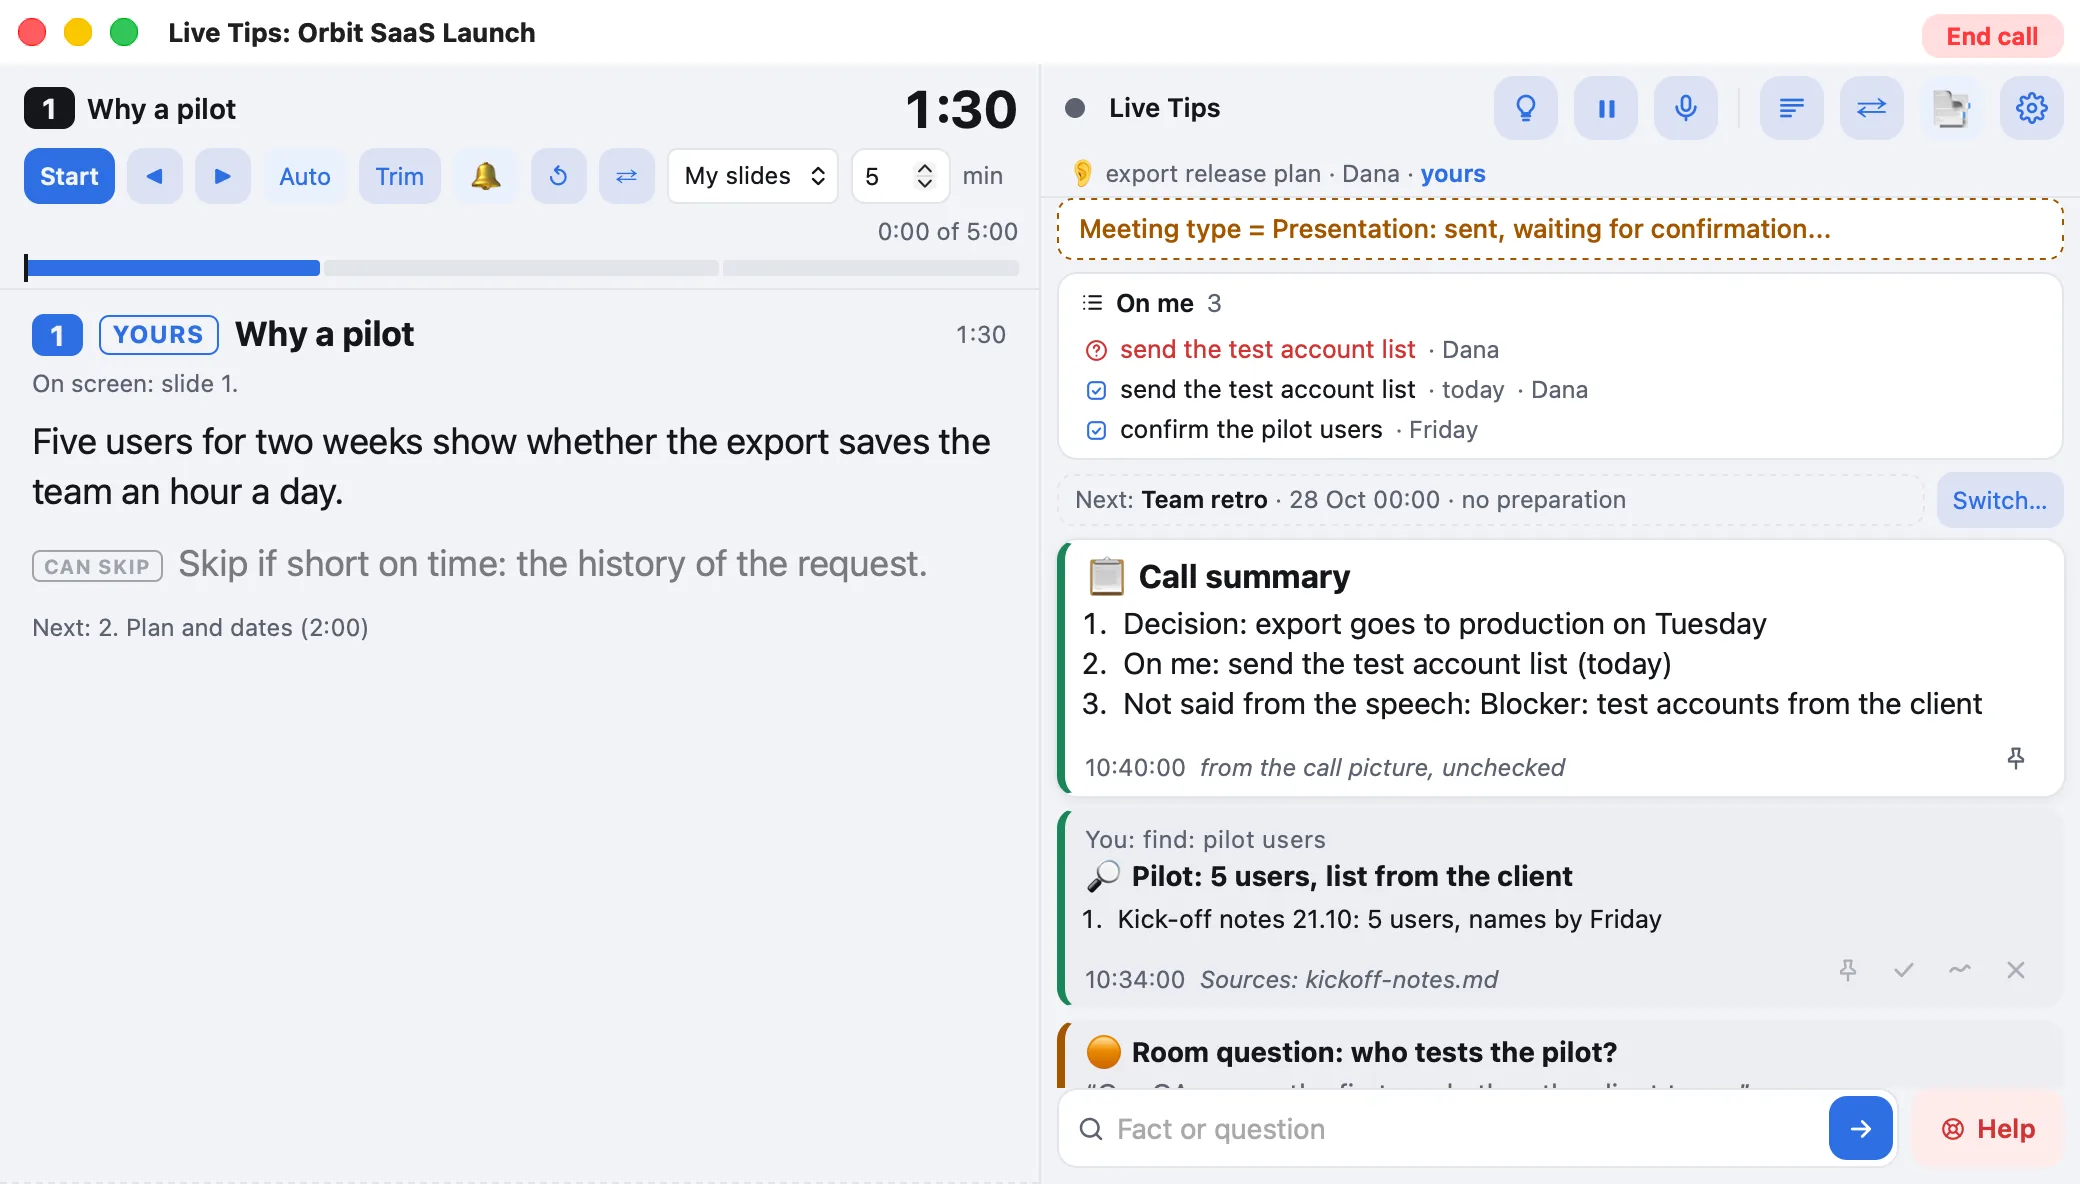
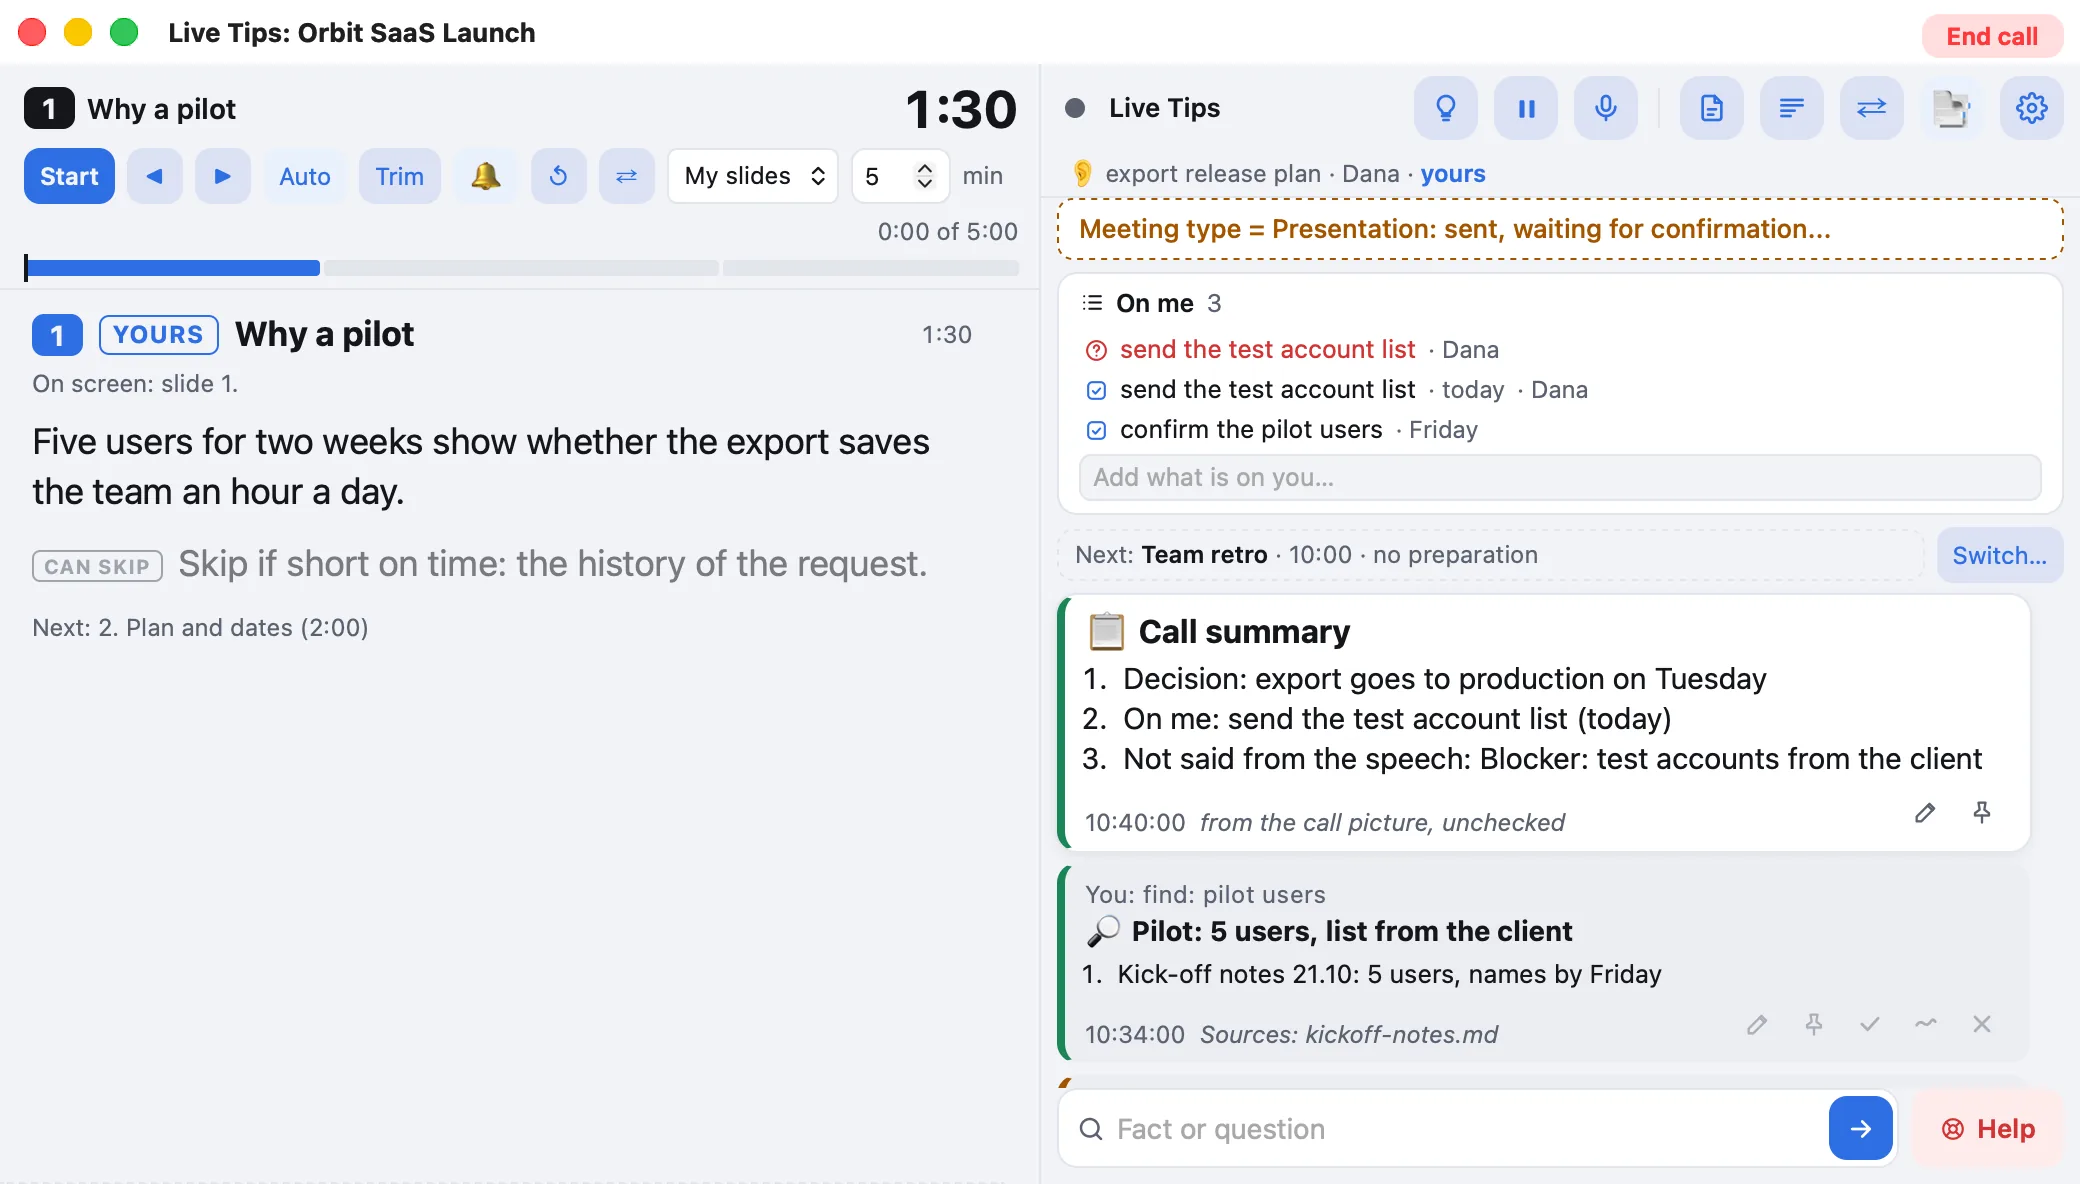
Live Tips 0.7.1: correcting cards and the preparation document; refreshed shots
Claude-Session: https://claude.ai/code/session_011gj7yXV1CHodtL8oe3gkkZ

diff --git a/src/content/pages/uk/live-tips-details.md b/src/content/pages/uk/live-tips-details.md
@@ -115,6 +115,8 @@ facts:
 
 **Не встигли підготуватися? Все одно починайте.** Підготовка робить підказки багатшими, але не обовʼязкова. Без неї ви все одно отримуєте червоні підказки, коли звертаються до вас (питання до вас, ваша черга, нова вимога, дата, яку обіцяють), HELP NOW, відповіді на введені питання, пошук по папці проєкту, On me і сторінку зустрічі після дзвінка. Питання, на яке ніщо готове не відповідає, отримує речення, яке можна сказати одразу ("дайте хвилину, я перевірю"), і запускає глибший пошук лише для читання: Claude Code читає папку проєкту, локальну копію Notion і попередні дзвінки, а відповідь приходить новою карткою, зазвичай за 15-60 секунд. До появи підготовки бракує лише картки спічу і миттєвих карток фактів. Підготовка, що завершилась уже після старту, підключається сама, тож запізнення коштує тихіших перших хвилин, а не дзвінка. Два рядки в Call context (мета, на що дивитись) вже допомагають.
 
+**Виправляйте те, що бачите.** ✎ на будь-якій картці редагує заголовок, фразу і пункти або прибирає картку; в On me × прибирає рядок, подвійний клік виправляє, поле додає те, що картина дзвінка пропустила. Виправлення діють до кінця дзвінка, і підсумок у Notion вважає їх правдою. Кнопка 📄 відкриває повну підготовку поруч із підказками, з редагуванням; Read prep у Home показує й редагує її до дзвінка.
+
 **Ініціативні підказки під час дзвінка.** Кнопка 💡 у верхній панелі вмикає й вимикає ініціативні підказки (ідеї, що додати: відповідальний чи дата, яких бракує, факт до теми) без ⚙. Верхня панель тепер читається зліва направо: крапка, назва і таймер; далі те, що роблять підказки (💡 ініціативні, ⏸ пауза), і ваш мікрофон (🎙); далі вигляд (транскрипт, ⚙). End call окремо, у заголовку вікна, і завжди питає.
 
 **Календарі і Home.** Settings > Calendars: додайте акаунти в System Settings > Internet Accounts (кілька акаунтів Google і Microsoft можна), підключіть і позначте календарі з вашими дзвінками. Start call показує дзвінки навколо поточного часу чипами (йде, за 5 хв, ті, що накладаються, теж); клік заповнює назву, час, учасників, а для регулярної зустрічі все з її останнього дзвінка. Home показує дзвінки попереду з Prepare (спершу питає проєкт чи воркспейс і що важливо на дзвінку), Set up, Start чи Switch, цифри тижня і недавні дзвінки з Notion, Transcript і Show in Finder. Нагадування перед дзвінками з календаря необовʼязкове і за замовчуванням вимкнене.

diff --git a/src/content/pages/uk/changelog.md b/src/content/pages/uk/changelog.md
@@ -12,6 +12,7 @@ facts:
 
 | Версія | Дата | Що змінилось |
 |---|---|---|
+| Live Tips 0.7.1 beta | 2026-10-28 | **Виправлення карток на місці:** заголовок, фраза і пункти картки, прибрати пункти чи картку; On me: прибрати, виправити, додати. Виправлення діють до кінця дзвінка і йдуть у підсумок Notion як правда. **Підготовка як документ:** панель Preparation поруч із підказками і Read prep до дзвінка, обидва з редагуванням; підказки одразу перечитують виправлену підготовку. Менше, але точніших карток з попередніх зустрічей (скіл v55). |
 | Live Tips 0.7.0 beta | 2026-10-28 | **Інтерактивні Insights на Home:** період (сьогодні, цей чи минулий тиждень, місяць, 30 днів, свої дати) і проєкт чи воркспейс, клік по дню на графіку, дзвінки вибірки. **Глибша підготовка:** останні 3 дзвінки тієї самої зустрічі читаються повністю, а бриф має розділ Previous meetings (що обговорювали, питання і чи на них відповіли, відкриті пункти, action items з відповідальними і статусом). У вузькому Home Insights зверху і нижчі, у широкому поруч із дзвінками; недавні дзвінки показують 8 і Show all. |
 | Live Tips 0.6.9 beta | 2026-10-27 | **Home першим.** Сайт і аппка відкриваються з Home; у широкому вікні цей тиждень стоїть поруч із дзвінками. **Цифри можна сховати для демо:** Settings > General ховає цифри тижня, графік і місячні витрати. Нові скріни: Home, Prepare. |
 | Live Tips 0.6.8 beta | 2026-10-27 | **Prepare спершу питає:** проєкт чи воркспейс і що важливо на дзвінку, щоб було зрозуміло, з чого робиться підготовка (нова зустріч без проєкту за замовчуванням). **Цей тиждень на Home:** дзвінки, час на дзвінках, витрати на Claude, підготовлені дзвінки, хвилини по днях за проєктами, найдовший дзвінок і найзавантаженіший день. |

diff --git a/src/content/pages/en/live-tips-details.md b/src/content/pages/en/live-tips-details.md
@@ -115,6 +115,8 @@ With [Ollama](https://ollama.com) and a small multilingual embedding model (`bge
 
 **No time to prepare? Start anyway.** A preparation makes tips richer, it is not required. Without it you still get the red tips when you are addressed (a question to you, your turn, a new request, a date being promised), HELP NOW, answers to questions you type, a search over the project folder, On me and the meeting page after the call. A question nothing ready answers gets a sentence you can say at once ("give me a minute, I will check") and starts a deeper, read-only search: Claude Code reads the project folder, the local Notion copy and earlier calls, and the answer arrives as a new card, usually in 15-60 seconds. Missing until a preparation arrives: the speech card and the instant fact cards. A preparation that finishes after the start joins the call by itself, so a late one costs you a quieter first few minutes, not the call. Two lines in Call context (the goal, what to look for) already help.
 
+**Correct what you see.** ✎ on any card edits its heading, phrase and points, or removes it; in On me, × removes a line, a double-click corrects it and a field adds what the call picture missed. Corrections stay for the call and the Notion summary takes them as true. The 📄 button opens the full preparation next to the tips, editable; Read prep in Home shows and edits it before the call.
+
 **Proactive tips during the call.** The 💡 button in the top bar switches proactive tips (ideas to add: a missing owner or date, a fact worth mentioning) on and off without opening ⚙. The top bar now reads left to right: the dot, the title and the timer; then what the tips do (💡 proactive, ⏸ pause) and your mic (🎙); then the view (transcript, ⚙). End call stays apart, in the window's title bar, and always asks first.
 
 **Calendars and Home.** Settings > Calendars: add accounts in System Settings > Internet Accounts (several Google and Microsoft accounts are fine), connect, and tick the calendars with your calls. Start call then shows the calls around now as chips (in progress, in 5 min, overlapping ones too); a click fills the title, time, participants and, for a regular meeting, everything from its last call. Home lists the calls ahead with Prepare (it asks first for the project or workspace and what matters on the call), Set up, Start or Switch, this week's numbers, and the recent calls with Notion, Transcript and Show in Finder. An optional reminder before calendar calls is off by default.

diff --git a/src/content/pages/en/changelog.md b/src/content/pages/en/changelog.md
@@ -12,6 +12,7 @@ facts:
 
 | Version | Date | What changed |
 |---|---|---|
+| Live Tips 0.7.1 beta | 2026-10-28 | **Correct cards in place:** edit a card's heading, phrase and points, remove points or the card; On me: remove, correct, add. Corrections stay for the call and go to the Notion summary as true. **The preparation as a document:** a Preparation pane next to the tips and Read prep before the call, both editable; the tips reload a corrected preparation at once. Fewer, surer cards from previous meetings (skill v55). |
 | Live Tips 0.7.0 beta | 2026-10-28 | **Interactive insights on Home:** choose the period (today, this or last week, this month, 30 days, your dates) and a project or workspace, click a day in the chart to see it, open the calls of the selection. **Deeper preparation:** the last 3 calls of the same meeting are read in full, and the brief gets a Previous meetings section (what was discussed, questions and whether they were answered, open items, action items with owners and status). A narrow Home shows insights on top, lower; a wide one next to the calls; recent calls show 8 with Show all. |
 | Live Tips 0.6.9 beta | 2026-10-27 | **Home first.** The site and the app open on Home; a wide Home puts this week next to the calls. **Numbers off for a demo:** Settings > General hides this week's numbers, the chart and the monthly spend. New screenshots: Home, Prepare. |
 | Live Tips 0.6.8 beta | 2026-10-27 | **Prepare asks first:** the project or workspace and what matters on the call, so it is clear what the preparation is based on (a new meeting has no default project). **This week on Home:** calls, time on calls, Claude spend, prepared calls, minutes per day by project, the longest call and the busiest day. |

diff --git a/src/content/pages/uk/live-tips.md b/src/content/pages/uk/live-tips.md
@@ -7,7 +7,7 @@ facts:
   - { k: Звук, v: "Лишається на вашому Маку" }
   - { k: Вартість, v: "Застосунок безкоштовний, Claude близько $0.2-0.8 за дзвінок" }
   - { k: Нотатки йдуть у, v: "Notion і папку проєкту" }
-  - { k: Статус, v: "бета 0.7.0" }
+  - { k: Статус, v: "бета 0.7.1" }
 ---
 
 <div class="aimix">

diff --git a/src/content/pages/en/live-tips.md b/src/content/pages/en/live-tips.md
@@ -7,7 +7,7 @@ facts:
   - { k: Audio, v: "Stays on your Mac" }
   - { k: Cost, v: "Free app, about $0.2-0.8 of Claude per call" }
   - { k: Notes go to, v: "Notion and your project folder" }
-  - { k: Status, v: "beta 0.7.0" }
+  - { k: Status, v: "beta 0.7.1" }
 ---
 
 <div class="aimix">
